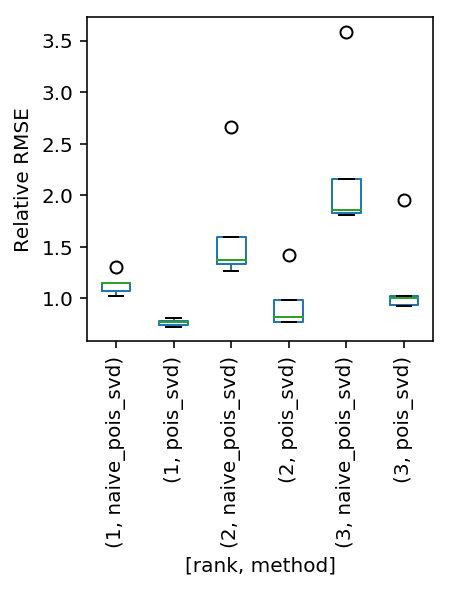
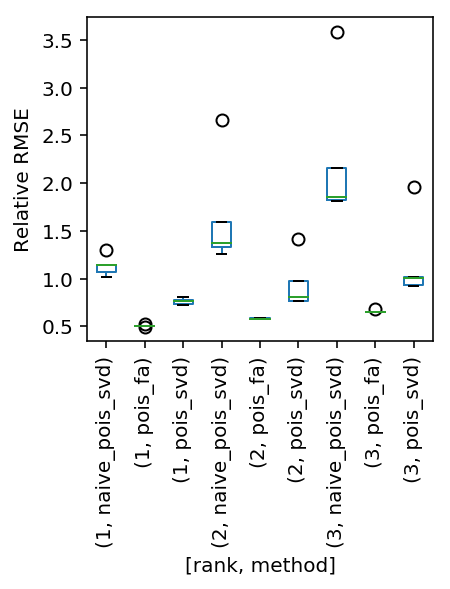
Implement FA via gradient descent

diff --git a/docs/wsvd.html b/docs/wsvd.html
@@ -1,7 +1,7 @@
 <!DOCTYPE html>
 <html lang="en">
 <head>
-<!-- 2018-08-02 Thu 17:20 -->
+<!-- 2018-08-03 Fri 18:10 -->
 <meta charset="utf-8">
 <meta name="viewport" content="width=device-width, initial-scale=1">
 <title>Factor analysis for single cell data</title>
@@ -258,7 +258,13 @@ for the JavaScript code in this tag.
 <div id="text-table-of-contents">
 <ul>
 <li><a href="#org792a4de">Introduction</a></li>
-<li><a href="#org3e1b3c4">Implementation</a></li>
+<li><a href="#org3e1b3c4">Implementation</a>
+<ul>
+<li><a href="#org9050847">Iterative reweighted factor analysis</a></li>
+<li><a href="#org420c835">First order optimization</a></li>
+<li><a href="#org44d3211">Naive factor analysis</a></li>
+</ul>
+</li>
 <li><a href="#org17b1019">Simulation</a></li>
 <li><a href="#orgc11fabd">Application to single cell data</a></li>
 </ul>
@@ -435,6 +441,10 @@ is the auxiliary response:
 <div id="outline-container-org3e1b3c4" class="outline-2">
 <h2 id="org3e1b3c4">Implementation</h2>
 <div class="outline-text-2" id="text-org3e1b3c4">
+</div>
+<div id="outline-container-org9050847" class="outline-3">
+<h3 id="org9050847">Iterative reweighted factor analysis</h3>
+<div class="outline-text-3" id="text-org9050847">
 <div class="org-src-container">
 <pre class="src src-ipython"><span class="org-keyword">def</span> <span class="org-function-name">wsvd</span>(x, s, n_components, prior_prec=1, max_iters=10, verbose=<span class="org-constant">False</span>):
   <span class="org-variable-name">n</span>, <span class="org-variable-name">p</span> = x.shape
@@ -484,6 +494,78 @@ is the auxiliary response:
 </div>
 </div>
 </div>
+
+<div id="outline-container-org420c835" class="outline-3">
+<h3 id="org420c835">First order optimization</h3>
+<div class="outline-text-3" id="text-org420c835">
+<p>
+Directly optimize the log likelihood via gradient descent:
+</p>
+
+<p>
+\[ x_{ij} \sim Poisson(\lambda_{ij}) \]
+</p>
+
+<p>
+\[ \lambda_{ij} = \sum_k L_{ik} F_{kj} \]
+</p>
+
+<p>
+For simplicity, don't put any constraints on \(L, F\).
+</p>
+
+<div class="org-src-container">
+<pre class="src src-ipython"><span class="org-keyword">import</span> torch
+
+<span class="org-keyword">class</span> <span class="org-type">PoissonFA</span>(torch.nn.Module):
+  <span class="org-keyword">def</span> <span class="org-function-name">__init__</span>(<span class="org-keyword">self</span>, n_samples, n_features, n_components):
+    <span class="org-builtin">super</span>().__init__()
+    <span class="org-keyword">self</span>.l = torch.randn([n_samples, n_components], requires_grad=<span class="org-constant">True</span>)
+    <span class="org-keyword">self</span>.f = torch.randn([n_components, n_features], requires_grad=<span class="org-constant">True</span>)
+
+  <span class="org-keyword">def</span> <span class="org-function-name">forward</span>(<span class="org-keyword">self</span>, x):
+    <span class="org-variable-name">log_lam</span> = torch.matmul(<span class="org-keyword">self</span>.l, <span class="org-keyword">self</span>.f)
+    <span class="org-keyword">return</span> -torch.mean(x * log_lam - torch.exp(log_lam) + sp.gammaln(x + 1))
+
+  <span class="org-keyword">def</span> <span class="org-function-name">fit</span>(<span class="org-keyword">self</span>, x, max_epochs=1000, verbose=<span class="org-constant">False</span>, **kwargs):
+    <span class="org-variable-name">x</span> = torch.tensor(x, dtype=torch.<span class="org-builtin">float</span>)
+    <span class="org-variable-name">opt</span> = torch.optim.Adam([<span class="org-keyword">self</span>.l, <span class="org-keyword">self</span>.f], **kwargs)
+    <span class="org-keyword">for</span> i <span class="org-keyword">in</span> <span class="org-builtin">range</span>(max_epochs):
+      opt.zero_grad()
+      <span class="org-variable-name">loss</span> = <span class="org-keyword">self</span>.forward(x)
+      <span class="org-keyword">if</span> verbose <span class="org-keyword">and</span> <span class="org-keyword">not</span> i % 100:
+        <span class="org-keyword">print</span>(f<span class="org-string">'Epoch {i} = {loss}'</span>)
+      loss.backward()
+      opt.step()
+    <span class="org-keyword">return</span> <span class="org-keyword">self</span>
+
+<span class="org-keyword">def</span> <span class="org-function-name">pois_fa</span>(x, n_components, **kwargs):
+  <span class="org-variable-name">n</span>, <span class="org-variable-name">p</span> = x.shape
+  <span class="org-variable-name">res</span> = PoissonFA(n, p, n_components).fit(x, max_epochs=2000, lr=5e-2)
+  <span class="org-keyword">return</span> res.l.detach().numpy(), np.ones(n_components), res.f.detach().numpy()
+</pre>
+</div>
+</div>
+</div>
+
+<div id="outline-container-org44d3211" class="outline-3">
+<h3 id="org44d3211">Naive factor analysis</h3>
+<div class="outline-text-3" id="text-org44d3211">
+<p>
+The naive approach would be to compute the Poisson MLE \(\hat\lambda_{ij}\)
+once and then factorize the resulting matrix. But without further
+assumptions, the MLE is \(\hat\lambda_{ij} = x_{ij}\)
+</p>
+
+<div class="org-src-container">
+<pre class="src src-ipython" id="org97eb20d"><span class="org-keyword">def</span> <span class="org-function-name">naive_pois_svd</span>(x, n_components, **kwargs):
+  <span class="org-keyword">return</span> skd.PCA(n_components=n_components)._fit(x)
+</pre>
+</div>
+</div>
+</div>
+</div>
+
 
 <div id="outline-container-org17b1019" class="outline-2">
 <h2 id="org17b1019">Simulation</h2>
@@ -538,16 +620,8 @@ Test the simulation framework.
 </pre>
 
 <p>
-For comparison, the naive approach would be to compute the Poisson MLE
-\(\hat\lambda_{ij}\) once and then factorize the resulting matrix. But without
-further assumptions, the MLE is \(\hat\lambda_{ij} = x_{ij}\)
+Compute the naive estimate.
 </p>
-
-<div class="org-src-container">
-<pre class="src src-ipython" id="org97eb20d"><span class="org-keyword">def</span> <span class="org-function-name">naive_pois_svd</span>(x, n_components, **kwargs):
-  <span class="org-keyword">return</span> skd.PCA(n_components=n_components)._fit(x)
-</pre>
-</div>
 
 <div class="org-src-container">
 <pre class="src src-ipython">rrmse(reconstruct(naive_pois_svd(x, 1)), lf)
@@ -568,7 +642,7 @@ Evaluate the methods systematically.
   <span class="org-variable-name">result</span> = []
   <span class="org-keyword">for</span> rank <span class="org-keyword">in</span> <span class="org-builtin">range</span>(1, 4):
     <span class="org-keyword">for</span> n_components <span class="org-keyword">in</span> <span class="org-builtin">range</span>(1, 4):
-      <span class="org-keyword">for</span> method <span class="org-keyword">in</span> (pois_svd, naive_pois_svd):
+      <span class="org-keyword">for</span> method <span class="org-keyword">in</span> (pois_svd, pois_fa, naive_pois_svd):
         <span class="org-keyword">for</span> trial <span class="org-keyword">in</span> <span class="org-builtin">range</span>(num_trials):
           <span class="org-keyword">try</span>:
             <span class="org-variable-name">x</span>, <span class="org-variable-name">lam</span> = simulate(num_samples=100, num_features=1000, rank=rank, seed=trial)
@@ -657,21 +731,30 @@ to the ground truth have the highest likelihood?
 </p>
 
 <div class="org-src-container">
-<pre class="src src-ipython">(result
+<pre class="src src-ipython">(result[result[<span class="org-string">'method'</span>] == <span class="org-string">'pois_svd'</span>]
  .groupby([<span class="org-string">'rank'</span>, <span class="org-string">'trial'</span>])
- .<span class="org-builtin">apply</span>(<span class="org-keyword">lambda</span> x: x.loc[x[<span class="org-string">'llik'</span>].idxmax, <span class="org-string">'n_components'</span>] == x.iloc[0][<span class="org-string">'rank'</span>])
- .reset_index()
- .groupby(<span class="org-string">'rank'</span>)[0]
- .mean())
+ .<span class="org-builtin">apply</span>(<span class="org-keyword">lambda</span> x: x.loc[x[<span class="org-string">'llik'</span>].idxmax, <span class="org-string">'n_components'</span>])
+ .reset_index())
 </pre>
 </div>
 
 <pre class="example">
-rank
-1    1.0
-2    0.8
-3    1.0
-Name: 0, dtype: float64
+rank  trial  0
+0      1      0  1
+1      1      1  1
+2      1      2  1
+3      1      3  1
+4      1      4  1
+5      2      0  2
+6      2      1  2
+7      2      2  3
+8      2      3  2
+9      2      4  2
+10     3      0  3
+11     3      1  3
+12     3      2  3
+13     3      3  3
+14     3      4  3
 </pre>
 </div>
 </div>
@@ -775,7 +858,7 @@ m1.score(scaler.transform(mix), Y)
 </div>
 <div id="postamble" class="status">
 <p class="author">Author: Abhishek Sarkar</p>
-<p class="date">Created: 2018-08-02 Thu 17:20</p>
+<p class="date">Created: 2018-08-03 Fri 18:10</p>
 <p class="validation"><a href="http://validator.w3.org/check?uri=referer">Validate</a></p>
 </div>
 </body>

diff --git a/docs/sitemap.html b/docs/sitemap.html
@@ -3,7 +3,7 @@
 "http://www.w3.org/TR/xhtml1/DTD/xhtml1-strict.dtd">
 <html xmlns="http://www.w3.org/1999/xhtml" lang="en" xml:lang="en">
 <head>
-<!-- 2018-07-20 Fri 15:51 -->
+<!-- 2018-08-03 Fri 18:10 -->
 <meta http-equiv="Content-Type" content="text/html;charset=utf-8" />
 <meta name="viewport" content="width=device-width, initial-scale=1" />
 <title>Single cell</title>
@@ -245,7 +245,7 @@ for the JavaScript code in this tag.
 </div>
 <div id="postamble" class="status">
 <p class="author">Author: Abhishek Sarkar</p>
-<p class="date">Created: 2018-07-20 Fri 15:51</p>
+<p class="date">Created: 2018-08-03 Fri 18:10</p>
 <p class="validation"><a href="http://validator.w3.org/check?uri=referer">Validate</a></p>
 </div>
 </body>
